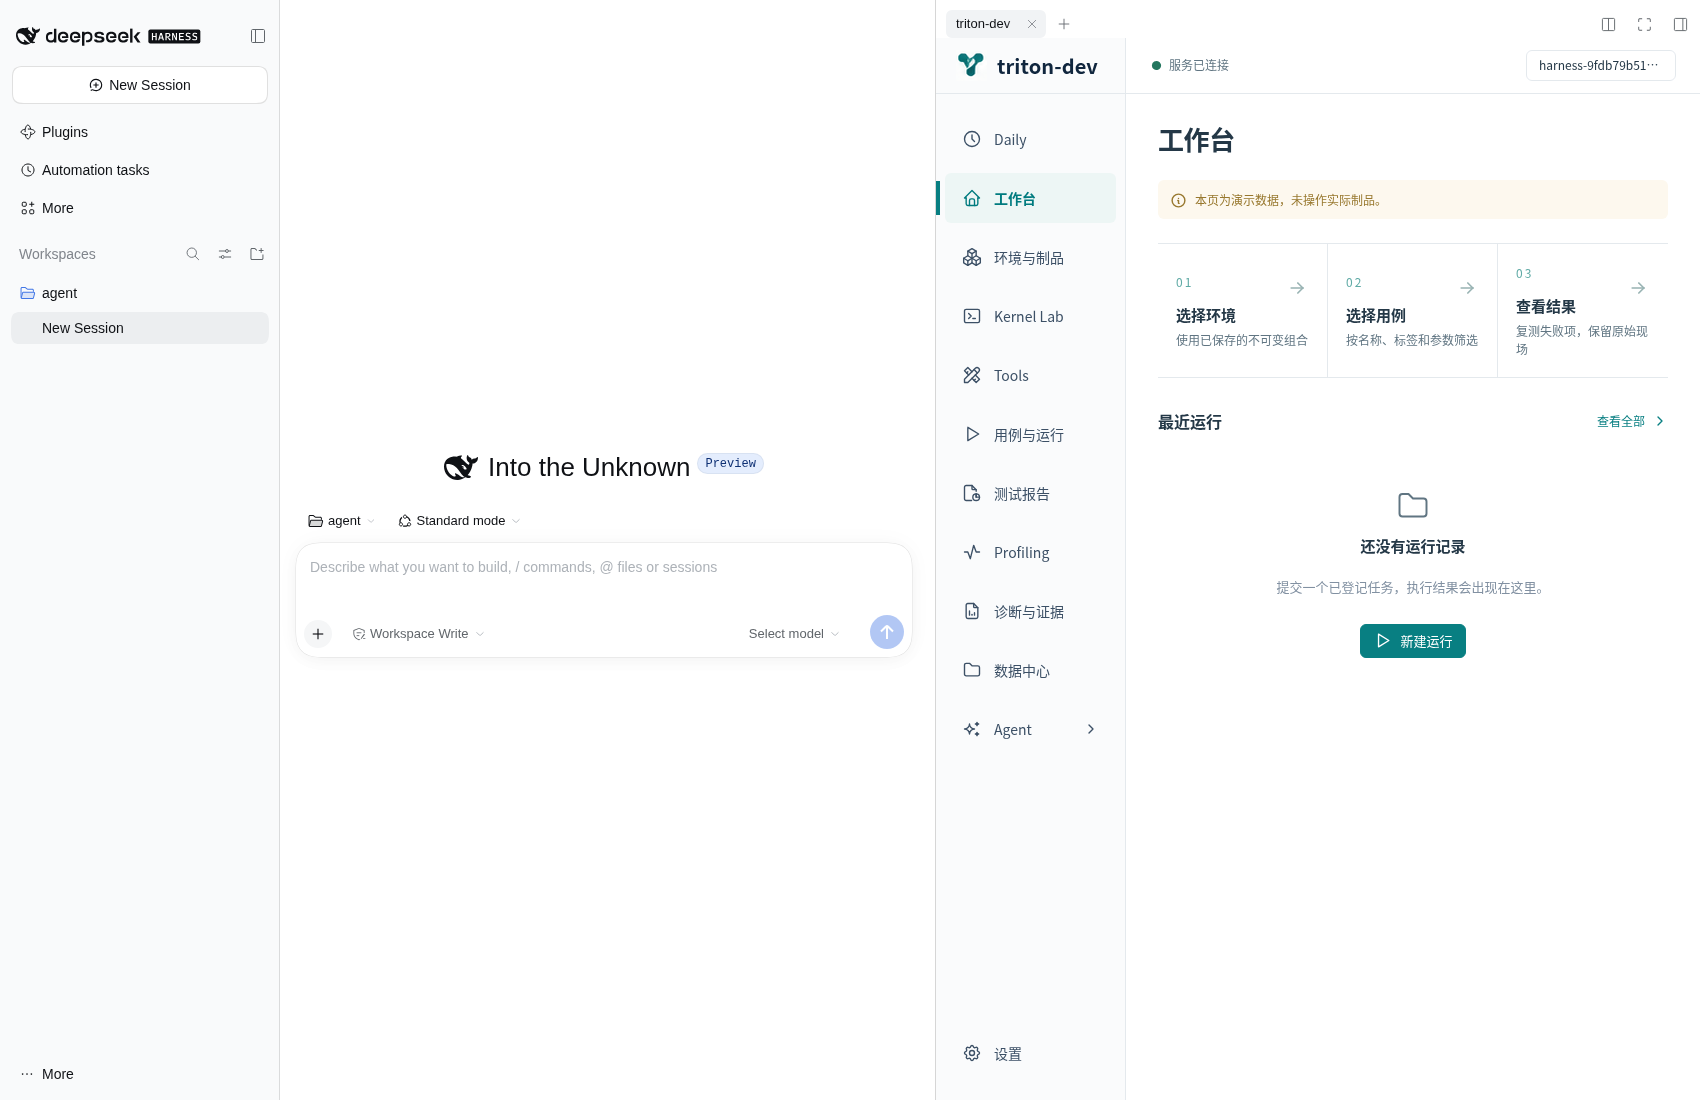
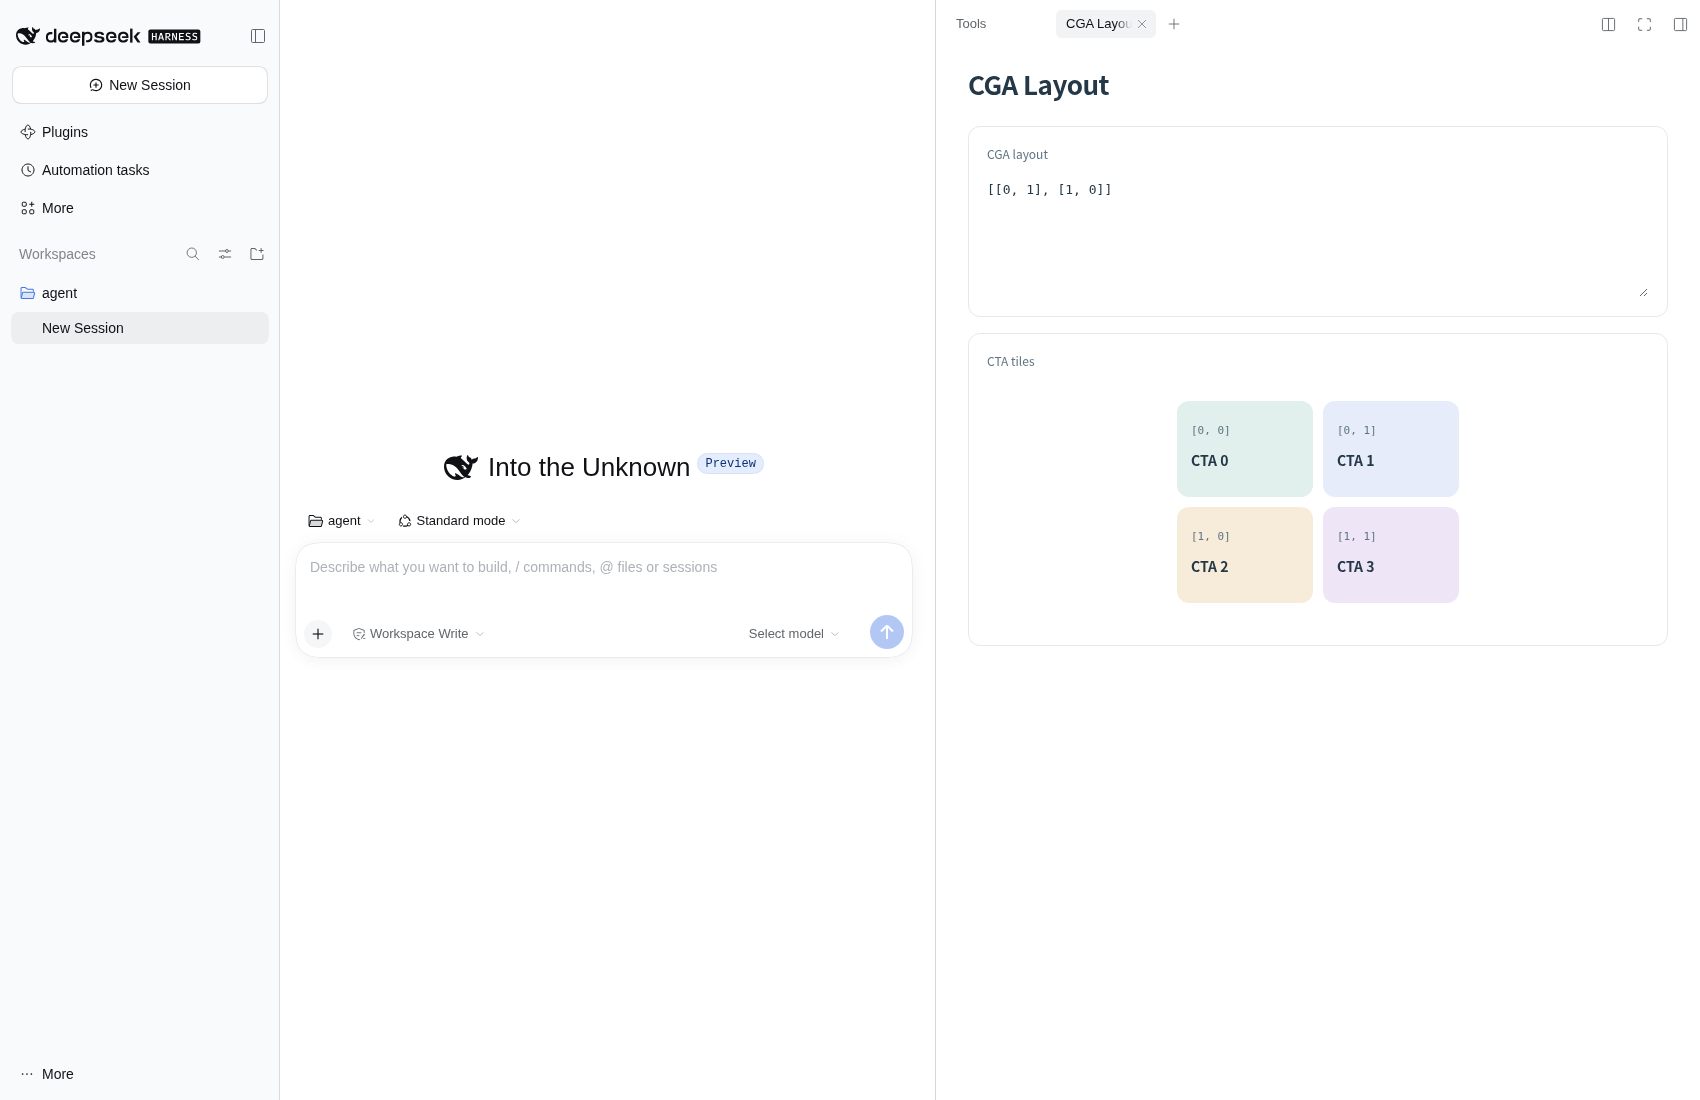
fix: use Harness navigation for Triton module pages

diff --git a/frontend/src/App.jsx b/frontend/src/App.jsx
@@ -1,3 +1,4 @@
+import { isHarnessEmbedded, navigateInHarness } from './harness-navigation';
 import { apiBase, harnessHeaders } from './harness-navigation';
 import { Fragment, lazy, Suspense, useEffect, useRef, useState } from 'react';
 import {
@@ -54,6 +55,7 @@ function Search({ value, onChange, placeholder }) {
 }
 
 export function App() {
+  const embedded = isHarnessEmbedded();
   const [platformInfo, setPlatformInfo] = useState(null), [sessionUser, setSessionUser] = useState(null), [loginOpen, setLoginOpen] = useState(false), [loginBusy, setLoginBusy] = useState(false), [loginError, setLoginError] = useState('');
   const [data, setData] = useState(() => loadState(window.localStorage));
   const [page, setPage] = useState(() => [...NAV.map(([id]) => id), 'regression', 'models', 'settings', 'tools-cga', 'tools-blocked'].includes(window.location.hash.slice(1)) ? window.location.hash.slice(1) : 'env');
@@ -63,7 +65,7 @@ export function App() {
   const [runTab, setRunTab] = useState('cases');
   const [runSurface, setRunSurface] = useState('pytest');
   const [query, setQuery] = useState('');
-  const [panel, setPanel] = useState(() => window.location.hash && window.location.hash !== '#env' ? null : 'create');
+  const [panel, setPanel] = useState(() => embedded || window.location.hash && window.location.hash !== '#env' ? null : 'create');
   const [source, setSource] = useState('baseline');
   const [draft, setDraft] = useState({ name: 'trial-1023', sdk: '1023', triton: '1023', torch: '1022' });
   const [error, setError] = useState('');
@@ -209,7 +211,7 @@ export function App() {
     clearUserData(); setSessionContext(null); setSessionUser(null); setToken(''); setConnected(false); setMode('demo'); setData(loadState(window.localStorage)); setLoginOpen(true);
   }
   function later(callback, ms) { timers.current.push(setTimeout(callback, ms)); }
-  function navigate(next) { if (['regression','models'].includes(next)) setAgentOpen(true); window.history.replaceState(null, '', `#${next}`); setPage(next); setPanel(null); setQuery(''); setRowMenu(null); setMobileNav(false); setError(''); if (next !== 'runs') setCurrentRun(null); }
+  function navigate(next) { if (navigateInHarness(next)) return; if (['regression','models'].includes(next)) setAgentOpen(true); window.history.replaceState(null, '', `#${next}`); setPage(next); setPanel(null); setQuery(''); setRowMenu(null); setMobileNav(false); setError(''); if (next !== 'runs') setCurrentRun(null); }
   function openPanel(next) { setPanel(next); setError(''); setRowMenu(null); }
   function cloneFrom(env) { setSource(env.name); setDraft({ name: envs.some(e => e.name === 'trial-1023') ? `trial-${envs.length + 1}` : 'trial-1023', sdk: env.sdk, triton: env.triton, torch: env.torch }); openPanel('create'); }
   async function copy(text) { try { await navigator.clipboard.writeText(text); setToast('已复制到剪贴板'); } catch { setToast('浏览器未允许复制，请手动选择文本。'); } }
@@ -307,20 +309,20 @@ export function App() {
   const heading = { home: ['工作台', '从明确的环境组合开始，完成一次可复现的验证。'], env: ['环境与制品', '每次运行绑定明确的版本组合。'],
     daily: ['Daily',''], runs: ['用例与运行', '选择用例、查看执行现场，并保留每一次复测。'], reports: ['测试报告', '按文件、逻辑用例和参数配置查看每项结果与执行证据。'], profiling: ['Profiling', '绑定一个 case 与一个环境，观察执行时间线与性能指标。'], regression: ['回归定位', '从基线验证到版本边界、组件干预和可复现调研报告。'], models: ['个人模型配置', '管理自己的模型端点、配置版本和加密密钥。'], data: ['数据中心', '按空间、任务、case和daily制品查询历史数据。'], diagnosis: ['诊断与证据', '让判断有依据，让复现可以移交。'], tools: ['Tools', '独立 helper 工具集合。'], 'tools-cga': ['CGA Layout', 'CTA tile 排列。'], 'tools-blocked': ['Blocked Layout', '线程数据分布。'], settings: ['设置', '管理本地连接与界面偏好。'] }[page];
 
-  return <div className={`app ${panel ? 'has-drawer' : ''}`}>
-    <aside className={`sidebar ${mobileNav ? 'mobile-open' : ''}`} aria-label="主导航" inert={overlay && !!panel}>
+  return <div className={`app ${embedded ? 'harness-embedded' : ''} ${panel ? 'has-drawer' : ''}`}>
+    {!embedded && <aside className={`sidebar ${mobileNav ? 'mobile-open' : ''}`} aria-label="主导航" inert={overlay && !!panel}>
       <a className="brand" href="#env" onClick={e => { e.preventDefault(); navigate('env'); }}><img src={`${import.meta.env.BASE_URL}assets/brand-mark.png`} alt="" /><span>triton-dev</span></a>
       <nav>{NAV.map(([id, label, Icon]) => <Fragment key={id}><button className={page === id || (id === 'tools' && ['tools-cga','tools-blocked'].includes(page)) ? 'nav-item active' : 'nav-item'} aria-current={page === id ? 'page' : undefined} onClick={() => navigate(id)}><Icon size={23} stroke={1.65} />{label}</button>{id === 'tools' && ['tools','tools-cga', 'tools-blocked'].includes(page) && <div className="agent-submodules" role="group" aria-label="Tools 子工具"><button className={`agent-submodule ${page === 'tools-cga' ? 'active' : ''}`} aria-current={page === 'tools-cga' ? 'page' : undefined} onClick={() => navigate('tools-cga')}>CGA Layout</button><button className={`agent-submodule ${page === 'tools-blocked' ? 'active' : ''}`} aria-current={page === 'tools-blocked' ? 'page' : undefined} onClick={() => navigate('tools-blocked')}>Blocked Layout</button></div>}</Fragment>)}
         <button className={`nav-item agent-nav-toggle ${page === 'regression' ? 'agent-selected' : ''}`} aria-label="Agent 任务栏" aria-expanded={agentOpen} aria-controls="agent-submodules" onClick={() => setAgentOpen(!agentOpen)}><IconSparkles size={23} stroke={1.65}/><span>Agent</span>{agentOpen ? <IconChevronDown size={16}/> : <IconChevronRight size={16}/>}</button>
         {agentOpen && <div id="agent-submodules" className="agent-submodules" role="group" aria-label="Agent 子模块"><button className={`agent-submodule ${page === 'regression' ? 'active' : ''}`} aria-current={page === 'regression' ? 'page' : undefined} onClick={() => navigate('regression')}>回归定位</button><button className={`agent-submodule ${page === 'models' ? 'active' : ''}`} onClick={() => navigate('models')}>模型配置{!platformInfo && <small>需多人服务</small>}</button></div>}
       </nav>
       <button className={`nav-item settings-nav ${page === 'settings' ? 'active' : ''}`} onClick={() => navigate('settings')}><IconSettings size={24} stroke={1.65} />设置</button>
-    </aside>
-    <header className="topbar" inert={overlay && !!panel}>
+    </aside>}
+    {!embedded && <header className="topbar" inert={overlay && !!panel}>
       <button className="icon-button mobile-toggle" aria-label="打开导航" onClick={() => setMobileNav(!mobileNav)}><IconMenu2 size={22} /></button>
       <button className={'connection-pill'+(platformInfo?' platform-connection':'')} onClick={() => navigate('settings')}><IconCircleFilled size={11} className={connected ? 'success' : 'muted'} />{connected ? '服务已连接' : ['tools','tools-cga', 'tools-blocked'].includes(page) ? '本地工具' : '离线演示'}</button>
       <div className="topbar-right">{!connected && !['tools','tools-cga', 'tools-blocked'].includes(page) && <span className="source-label">演示数据</span>}{platformInfo && <button className="platform-user-button" onClick={() => sessionUser ? navigate('settings') : setLoginOpen(true)}>{sessionUser ? sessionUser.name : '姓名登录'}</button>}</div>
-    </header>
+    </header>}
     <div className="workspace">
       <main className="main-content" id="main" inert={overlay && !!panel}>
         {!['regression','daily','kernel','tools','tools-cga', 'tools-blocked'].includes(page) && !(page === 'runs' && activeRun) && <div className="page-heading"><h1>{heading[0]}</h1></div>}

diff --git a/harness/src/client.jsx b/harness/src/client.jsx
@@ -1,15 +1,25 @@
-import React, { useEffect } from 'react';
-import { PAGES } from './protocol.js';
+import React, { useEffect, useRef } from 'react';
+import { PAGES, MODULES, moduleFor } from './protocol.js';
 export const inject=['slots','sidebarRight','sidebarRightTabs'];
 const ID='triton-dev-harness';
 
 function Workbench(props) {
   const {tab}=props.useTabInfo();
+  const frame=useRef(null);
   const params=tab.navigation.params||{};
-  const page=PAGES.includes(params.page)?params.page:'home';
-  const query=new URLSearchParams({harness_session:props.sessionId,selection:JSON.stringify(params.selection||{})});
-  return <iframe key={tab.id+page+query} title="triton-dev 工作台" src={'/triton/?'+query+'#'+page}
-    style={{width:'100%',height:'100%',minHeight:600,border:0,background:'#f5f8f8'}} />;
+  const page=PAGES.includes(params.page)?params.page:(props.defaultPage||'home');
+  const query=new URLSearchParams({embedded:'1',harness_session:props.sessionId,selection:JSON.stringify(params.selection||{})});
+  useEffect(()=>{
+    const navigate=event=>{
+      if(event.origin!==window.location.origin || event.source!==frame.current?.contentWindow)return;
+      if(event.data?.type!=='triton:navigate' || !PAGES.includes(event.data.page))return;
+      props.openPage(event.data.page);
+    };
+    window.addEventListener('message',navigate);
+    return()=>window.removeEventListener('message',navigate);
+  },[props.openPage]);
+  return <iframe ref={frame} key={tab.id+page+query} title="triton-dev 工作台" src={'/triton/?'+query+'#'+page}
+    style={{width:'100%',height:'100%',minHeight:0,border:0,background:'#f5f8f8'}} />;
 }
 function ToolResult(props) {
   let value;
@@ -26,9 +36,22 @@ function ToolResult(props) {
 }
 export function apply(ctx) {
   const started=Date.now(),seen=new Set();
-  ctx.effect(()=>ctx.sidebarRightTabs.register({id:ID,kind:'triton',priority:'extension',title:()=> 'triton-dev',
-    guide:[{id:'workbench',order:35,title:()=> 'triton-dev 工作台',description:()=> '测试、环境、Profiling、Kernel Lab 与布局工具'}]}));
-  ctx.effect(()=>ctx.slots.inject('sidebar.right.pane.tab',()=>ctx.slots.register({name:'sidebar.right.pane.tab',key:ID},Workbench)));
+  const openPage=(page,selection={})=>{
+    const module=moduleFor(page);
+    if(module)ctx.sidebarRight.openTab(module.kind,{params:{page,selection}});
+  };
+  const registerBody=(id,defaultPage='home')=>ctx.effect(()=>ctx.slots.inject('sidebar.right.pane.tab',()=>ctx.slots.register({
+    name:'sidebar.right.pane.tab',key:id,inject:()=>({openPage,defaultPage}),
+  },Workbench)));
+  for(const module of MODULES){
+    ctx.effect(()=>ctx.sidebarRightTabs.register({id:module.id,kind:module.kind,priority:'extension',title:()=>module.title,
+      ...(module.showInGuide?{guide:[{id:module.page,order:35+MODULES.indexOf(module),title:()=>module.title,
+        description:()=> 'Triton · '+module.title}]}:{})}));
+    registerBody(module.id,module.page);
+  }
+  // Old retained tabs remain readable, but no longer contribute a second application menu.
+  ctx.effect(()=>ctx.sidebarRightTabs.register({id:ID,kind:'triton',priority:'extension',title:()=> 'Triton'}));
+  registerBody(ID);
   // Tool registry is generated during build; only our names receive our result view.
   for(const name of TOOL_NAMES) {
     ctx.effect(()=>ctx.slots.inject('tool.call.toolview',()=>ctx.slots.register({name:'tool.call.toolview',key:name,
@@ -36,7 +59,7 @@ export function apply(ctx) {
         if(!PAGES.includes(view.page))return;
         if(!manual&&(seen.has(callId)||view.issued_at<started))return;
         seen.add(callId);
-        ctx.sidebarRight.openTab('triton',{params:{page:view.page,selection:view.selection}});
+        openPage(view.page,view.selection);
       }})},ToolResult)));
   }
 }

diff --git a/harness/src/protocol.js b/harness/src/protocol.js
@@ -27,3 +27,14 @@ export function pageFor(path) {
   if (path.includes('/data/') || path.includes('case-results')) return 'data';
   return 'runs';
 }
+
+// Stable page identities are shared by manual navigation and AI result navigation.
+export const MODULES = [
+  ['home','工作台'], ['daily','Daily'], ['env','环境与制品'], ['runs','用例与运行'],
+  ['reports','测试报告'], ['profiling','Profiling'], ['regression','回归定位'],
+  ['diagnosis','诊断与证据'], ['kernel','Kernel Lab'], ['tools','Tools'],
+  ['tools-cga','CGA Layout'], ['tools-blocked','Blocked Layout'], ['data','数据中心'],
+  ['models','Triton 模型配置'], ['settings','工具连接设置'],
+].map(([page,title]) => ({page,title,kind:'triton-'+page,id:'triton-dev-harness/'+page,
+  showInGuide:!['models','settings'].includes(page)}));
+export function moduleFor(page) { return MODULES.find(module=>module.page===page); }

diff --git a/frontend/src/harness-navigation.js b/frontend/src/harness-navigation.js
@@ -9,3 +9,13 @@ export function harnessHeaders(location = globalThis.window?.location || {search
   return session?{'X-Triton-Session':session}:{};
 }
 export function apiBase() {return `${(import.meta.env?.BASE_URL || "/")}api`;}
+
+export function isHarnessEmbedded(location = globalThis.window?.location || {search:''}) {
+  const params=new URLSearchParams(location.search);
+  return params.get('embedded')==='1' && !!params.get('harness_session');
+}
+export function navigateInHarness(page, browser = globalThis.window) {
+  if(!browser || !isHarnessEmbedded(browser.location) || browser.parent===browser)return false;
+  browser.parent.postMessage({type:'triton:navigate',page},browser.location.origin);
+  return true;
+}

diff --git a/frontend/src/refine.css b/frontend/src/refine.css
@@ -281,3 +281,7 @@ input[type=checkbox] { accent-color: var(--ui-accent); flex-shrink: 0; }
 .case-result-block.CANCELLED, .case-result-block.PENDING { background: var(--ui-neutral); }
 .case-result-block.RUNNING { background: var(--ui-info); }
 .regression-hero-facts.compact { grid-template-columns: 1fr; }
+
+/* Harness owns global navigation and its tab header; this surface contains business UI only. */
+.app.harness-embedded { --sidebar: 0px; --header: 0px; }
+.app.harness-embedded > .workspace { margin-left: 0; padding-top: 0; }

diff --git a/docs/HARNESS_ARCHITECTURE.md b/docs/HARNESS_ARCHITECTURE.md
@@ -14,7 +14,7 @@ DeepSeek Harness 是宿主，保留其原有对话、插件管理、模型设置
 2. `harness/src/client.jsx`：Client 标签与工具结果卡片。
 3. `triton_dev/harness`：Python CLI 能力发现与受控 JSON worker。
 
-Python 承担 SDK/测试/实验/证据。Harness 承担模型、上下文和 AI 编排。现有 React 工作台通过独立 iframe 保留浅色青绿 UI、Canvas、Monaco、报告及导航；这样 React 19 页面与 Harness React 18 插件不共用组件运行时。iframe 同源，不允许任意第三方 URL。默认入口仍是 Harness 对话；右侧工作台可按 Harness 自带布局展开。
+Python 承担 SDK/测试/实验/证据。Harness 承担模型、上下文和 AI 编排。现有 React 业务页面通过独立 iframe 保留浅色青绿 UI、Canvas、Monaco 和报告；Harness 提供统一导航和标签，嵌入页不渲染原全局侧栏、品牌头部及连接顶栏；这样 React 19 页面与 Harness React 18 插件不共用组件运行时。iframe 同源，不允许任意第三方 URL。默认入口仍是 Harness 对话；右侧工作台可按 Harness 自带布局展开。
 
 ## 2. AI 与页面使用同一能力
 
@@ -90,6 +90,12 @@ Host 配置 `enableWrites:false` 可关闭非只读 CLI 和所有非 GET API 工
 
 ## 集成界面实测
 
-官方 Harness 0.2.2-rc.1 原有面板入口与 Triton 标签共存，浏览器无脚本错误。截图中环境和首页继续明确标记演示来源。
+官方 Harness 0.2.2-rc.1 原有面板入口与 Triton 各模块的原生标签共存，浏览器无脚本错误。嵌入业务页面没有第二套全局导航；原独立应用外壳仅用于独立运行。截图展示独立 CGA Layout 标签；布局计算与真实 kernel 执行保持区分。
 
 ![Harness 与保留的 Triton 工作台](assets/harness-workbench.png)
+
+## 统一导航约定
+
+每个领域模块拥有稳定的 Harness tab kind（例如 `triton-profiling`、`triton-runs`、`triton-tools-cga`）与独立标题。手动入口、页面内跨模块操作与 AI 的 `triton_view` 使用同一模块表解析目标。旧 `triton` 标签保持只读兼容入口，不再贡献完整应用菜单。工具连接设置和 Triton 历史模型配置保留为需要时打开的业务页，不重复添加通用设置导航。
+
+`embedded=1` 与 Harness session 同时存在才启用内容模式。嵌入页的跨模块导航通过限定同源的 postMessage 交给宿主；宿主验证 origin、iframe source 和固定页面集合。独立浏览器运行继续使用原导航。不要在业务页加入新的全局导航或改变 Harness 自带插件入口。

diff --git a/harness/README.md b/harness/README.md
@@ -65,7 +65,7 @@ export DSH_HOME=/workspace/triton-harness/home
 
 使用上游原有 web profile 加载 `--patch /absolute/path/triton.patch.yml`；不要替换默认 profile 或删除已有插件。树外插件持久安装可使用该版本上游的 `dsh plugin` 管理命令。AI 模型和凭据仍通过 Harness 原有设置配置，triton 插件不覆盖。
 
-打开一个对话，右侧面板的新建入口选择 triton-dev。调用 `triton_open_page` 可切换所有原页面；工具结果卡片提供“在工作台查看”。无真实模型凭据时仍可使用工作台，不能声称完成了真实 AI 工作流。
+打开一个对话，右侧面板的新建入口直接选择 Profiling、用例与运行、CGA Layout 等模块。各模块使用 Harness 原生标签和标题，内容页不再包含第二套侧栏。调用 `triton_open_page` 可打开所有原页面；工具结果卡片提供“在工作台查看”。无真实模型凭据时仍可使用工作台，不能声称完成了真实 AI 工作流。
 
 ## 示例 AI 指令
 

diff --git a/triton_dev/harness/TODO.md b/triton_dev/harness/TODO.md
@@ -7,3 +7,5 @@
 - [x] Per-Harness-session backend workspace; host-retained cookie and CSRF.
 - [ ] Internal SSO principal mapping and production device/compiler/profile adapters require internal deployment validation.
 - [ ] Live model/device/SDK validation is not part of external mock demo checks.
+
+- [x] Harness 原生模块入口统一手动/AI导航，内容页移除重复侧栏与顶栏，保留独立运行模式。

diff --git a/frontend/TODO.md b/frontend/TODO.md
@@ -94,3 +94,5 @@
 - [x] 支持 /triton/ base、API/下载路径、会话头与布局输入深链接。
 - [x] 测试/Profiling/回归/Daily 结果 id 跳转。
 - [ ] 内网真实设备页面数据与 SSO 需内网验收。
+
+- [x] Harness 原生模块入口统一手动/AI导航，内容页移除重复侧栏与顶栏，保留独立运行模式。
